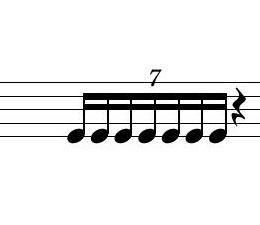
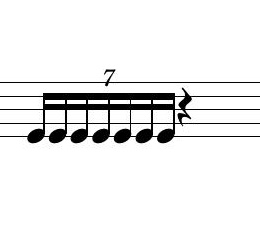
Improved note spacing

diff --git a/abjad/make_card.py b/abjad/make_card.py
@@ -19,10 +19,10 @@ preamble = r"""#(set-global-staff-size 19.5)
     \context {
         \Score
         \override Clef.stencil = ##f
-        \override SpacingSpanner.strict-spacing = ##t
         \override SystemStartBar.stencil = ##f
         \override TimeSignature.transparent = ##t
         proportionalNotationDuration = #(ly:make-moment 1 16)
+        \override SpacingSpanner.uniform-stretching = ##t
     }
 }"""
 
@@ -77,11 +77,12 @@ class CardBuilder:
         return notes
 
     def card_4():
-        # spacing needs to be fixed
+        # beaming still needs to be fixed
         div = (1, 8)
-        notes = [abjad.Rest('r8')] + [abjad.Note(n, div) for n in ("G4", "Ab4", "G4", "F#4")] + [abjad.Rest('r8')]
-        trips = make_triplets(notes)
-        return trips
+        trip = [abjad.Note(n, div) for n in ("G4", "Ab4", "G4")]
+        notes = [abjad.Tuplet((2, 3), trip)]
+        notes += [abjad.Note('F#4', (1, 8)), abjad.Rest('r8')]
+        return notes
 
     def card_5():
         notes = []
@@ -129,10 +130,10 @@ card_funcs = [func() for func in filter(lambda x: callable(x), CardBuilder.__dic
 i = 0
 
 for card_base in card_funcs:
-    if os.path.exists(f'../resources/card_{i}.jpg'):
-        print(f"Skipping card {i}")
-        i += 1
-        continue
+#    if os.path.exists(f'../resources/card_{i}.jpg'):
+#        print(f"Skipping card {i}")
+#        i += 1
+#        continue
     score = abjad.Score(name="Score")
     notes = card_base + [abjad.Rest('r2') for _ in range(3)] + [abjad.Note("C5", (1, 4)) for _ in range(4)]
     container = abjad.Container(notes)
@@ -160,7 +161,7 @@ for card_base in card_funcs:
         jpeg_im = Image.open(r"C:\Users\bkier\projects\draw(0)\abjad\output_dir\staff.jpg")
 
         width, height = jpeg_im.size
-        im_crop = jpeg_im.crop((10, 475, 270, 700))
+        im_crop = jpeg_im.crop((50, 475, 310, 700))
         im_crop.save(f'../resources/card_{i}.jpg', quality=95)
 
     delete_files = glob.glob(r"C:/Users/bkier/projects/draw(0)/abjad/output_dir/*")
